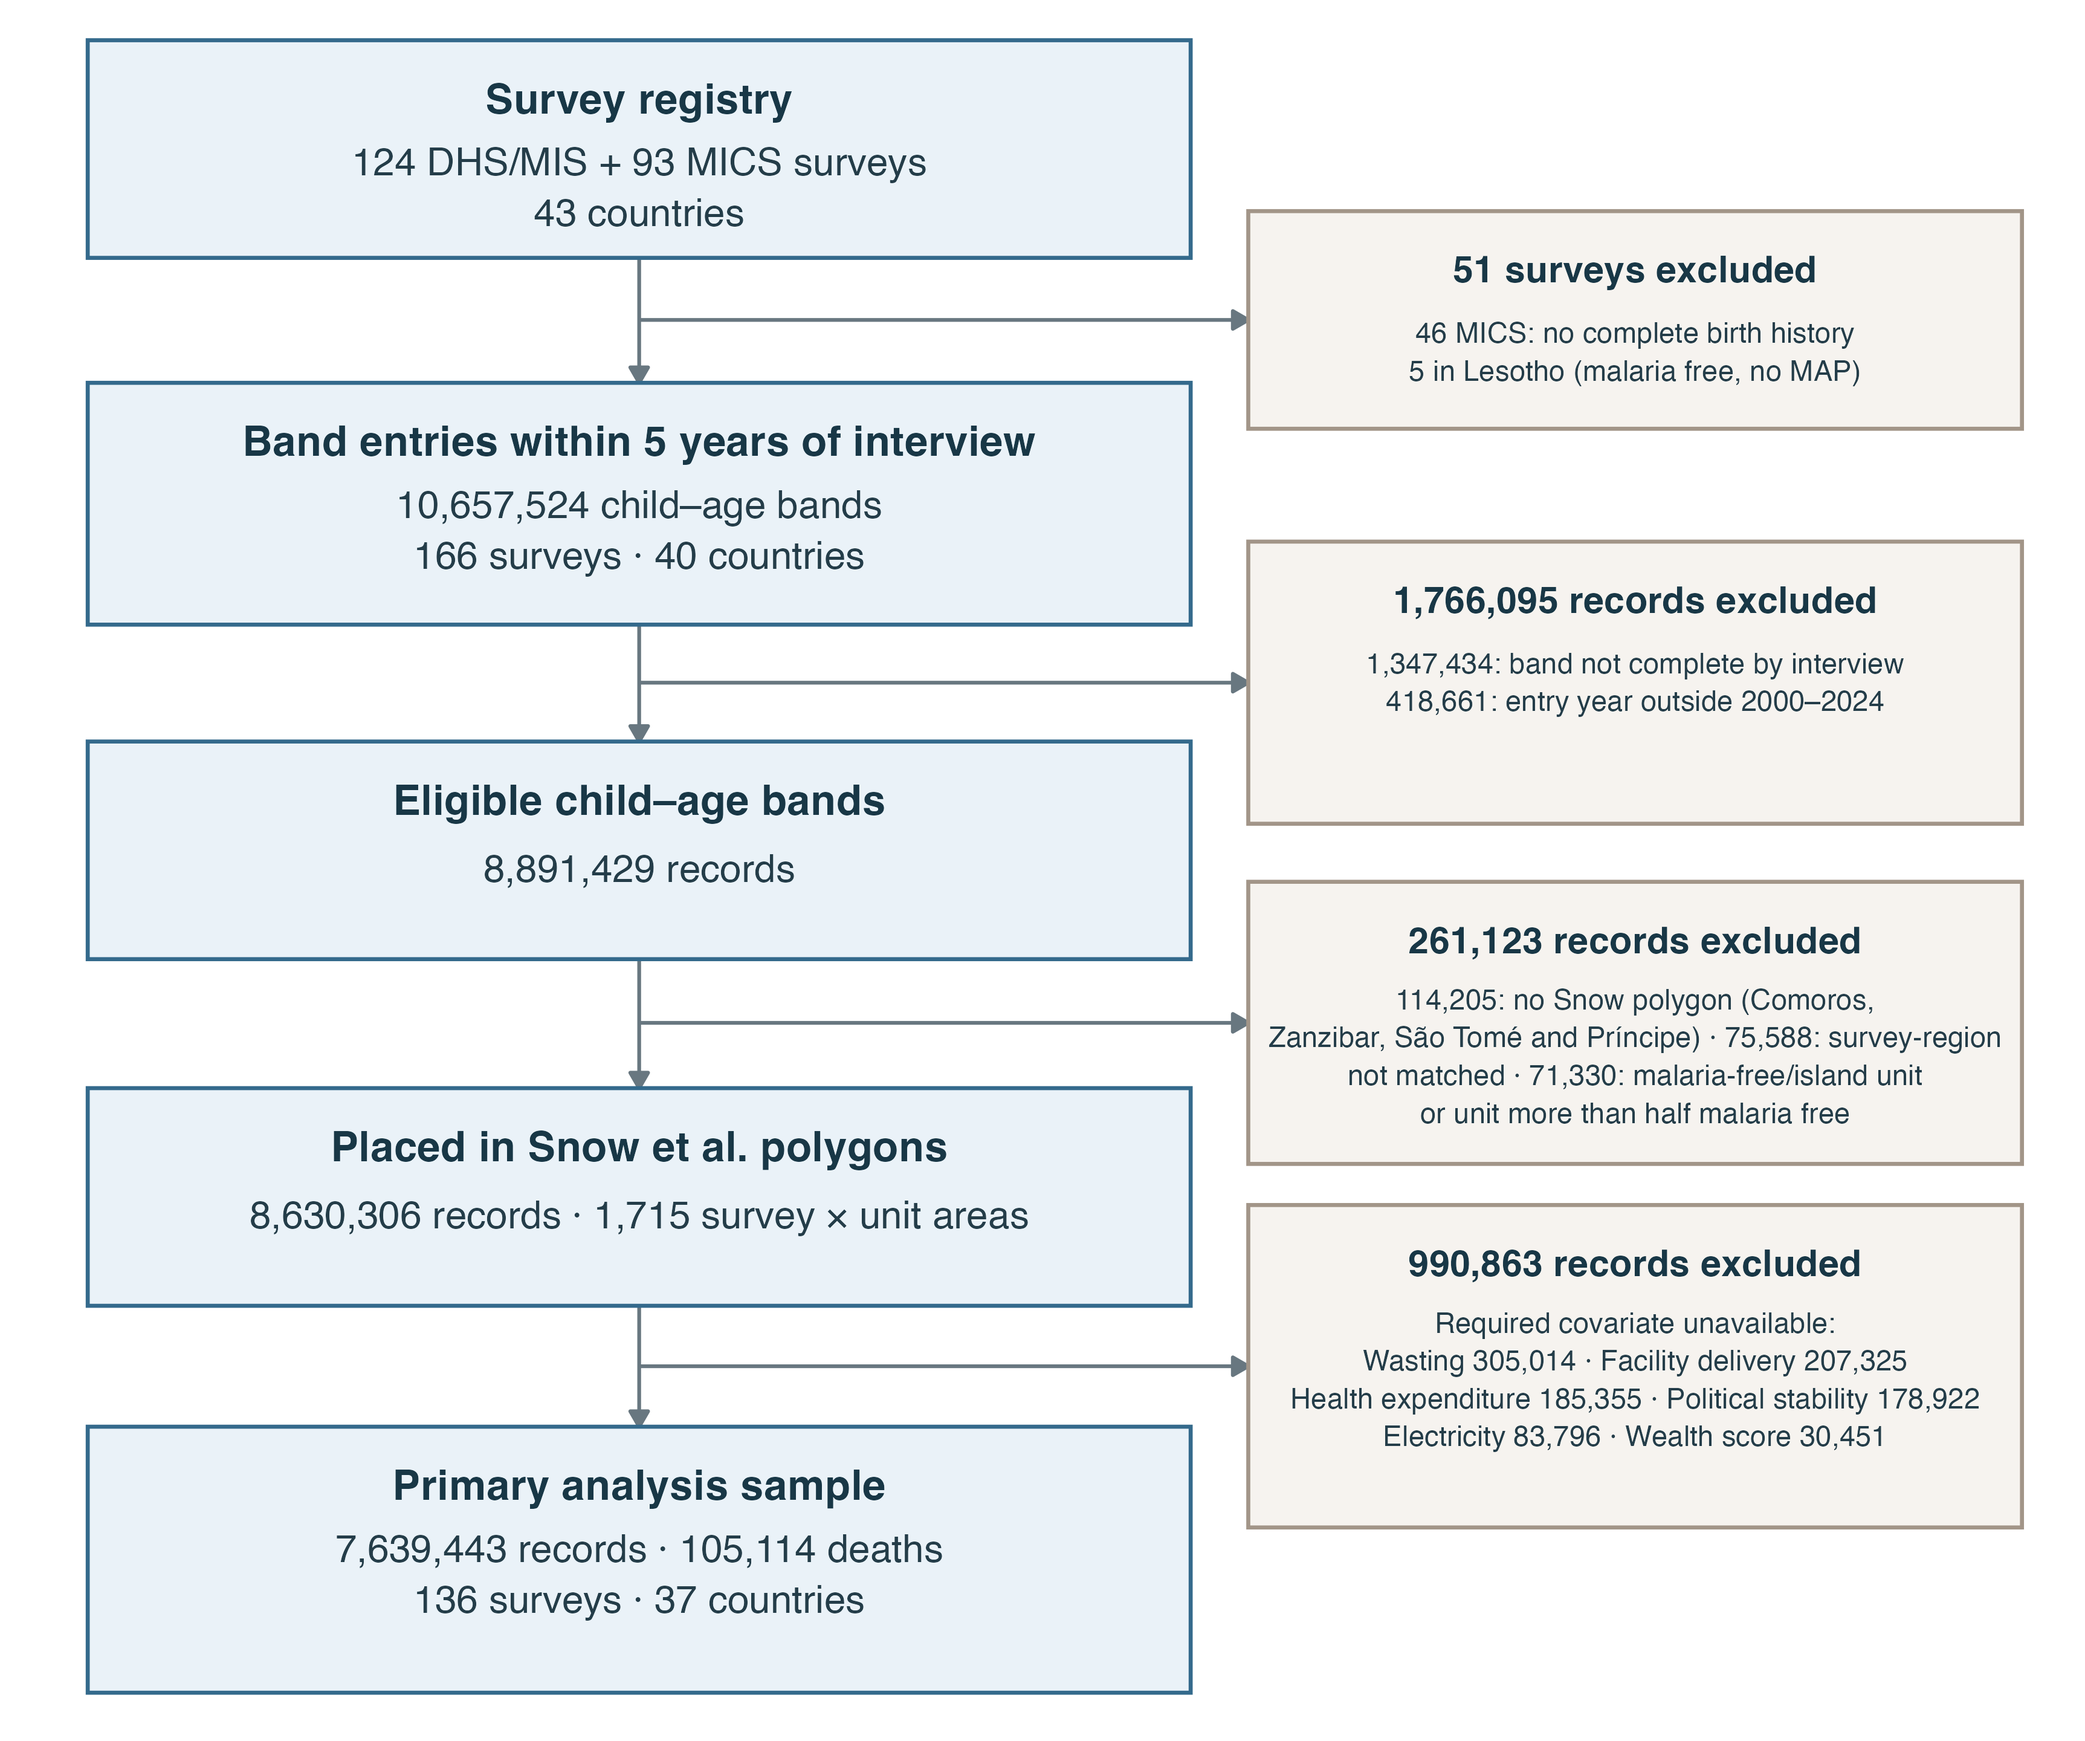
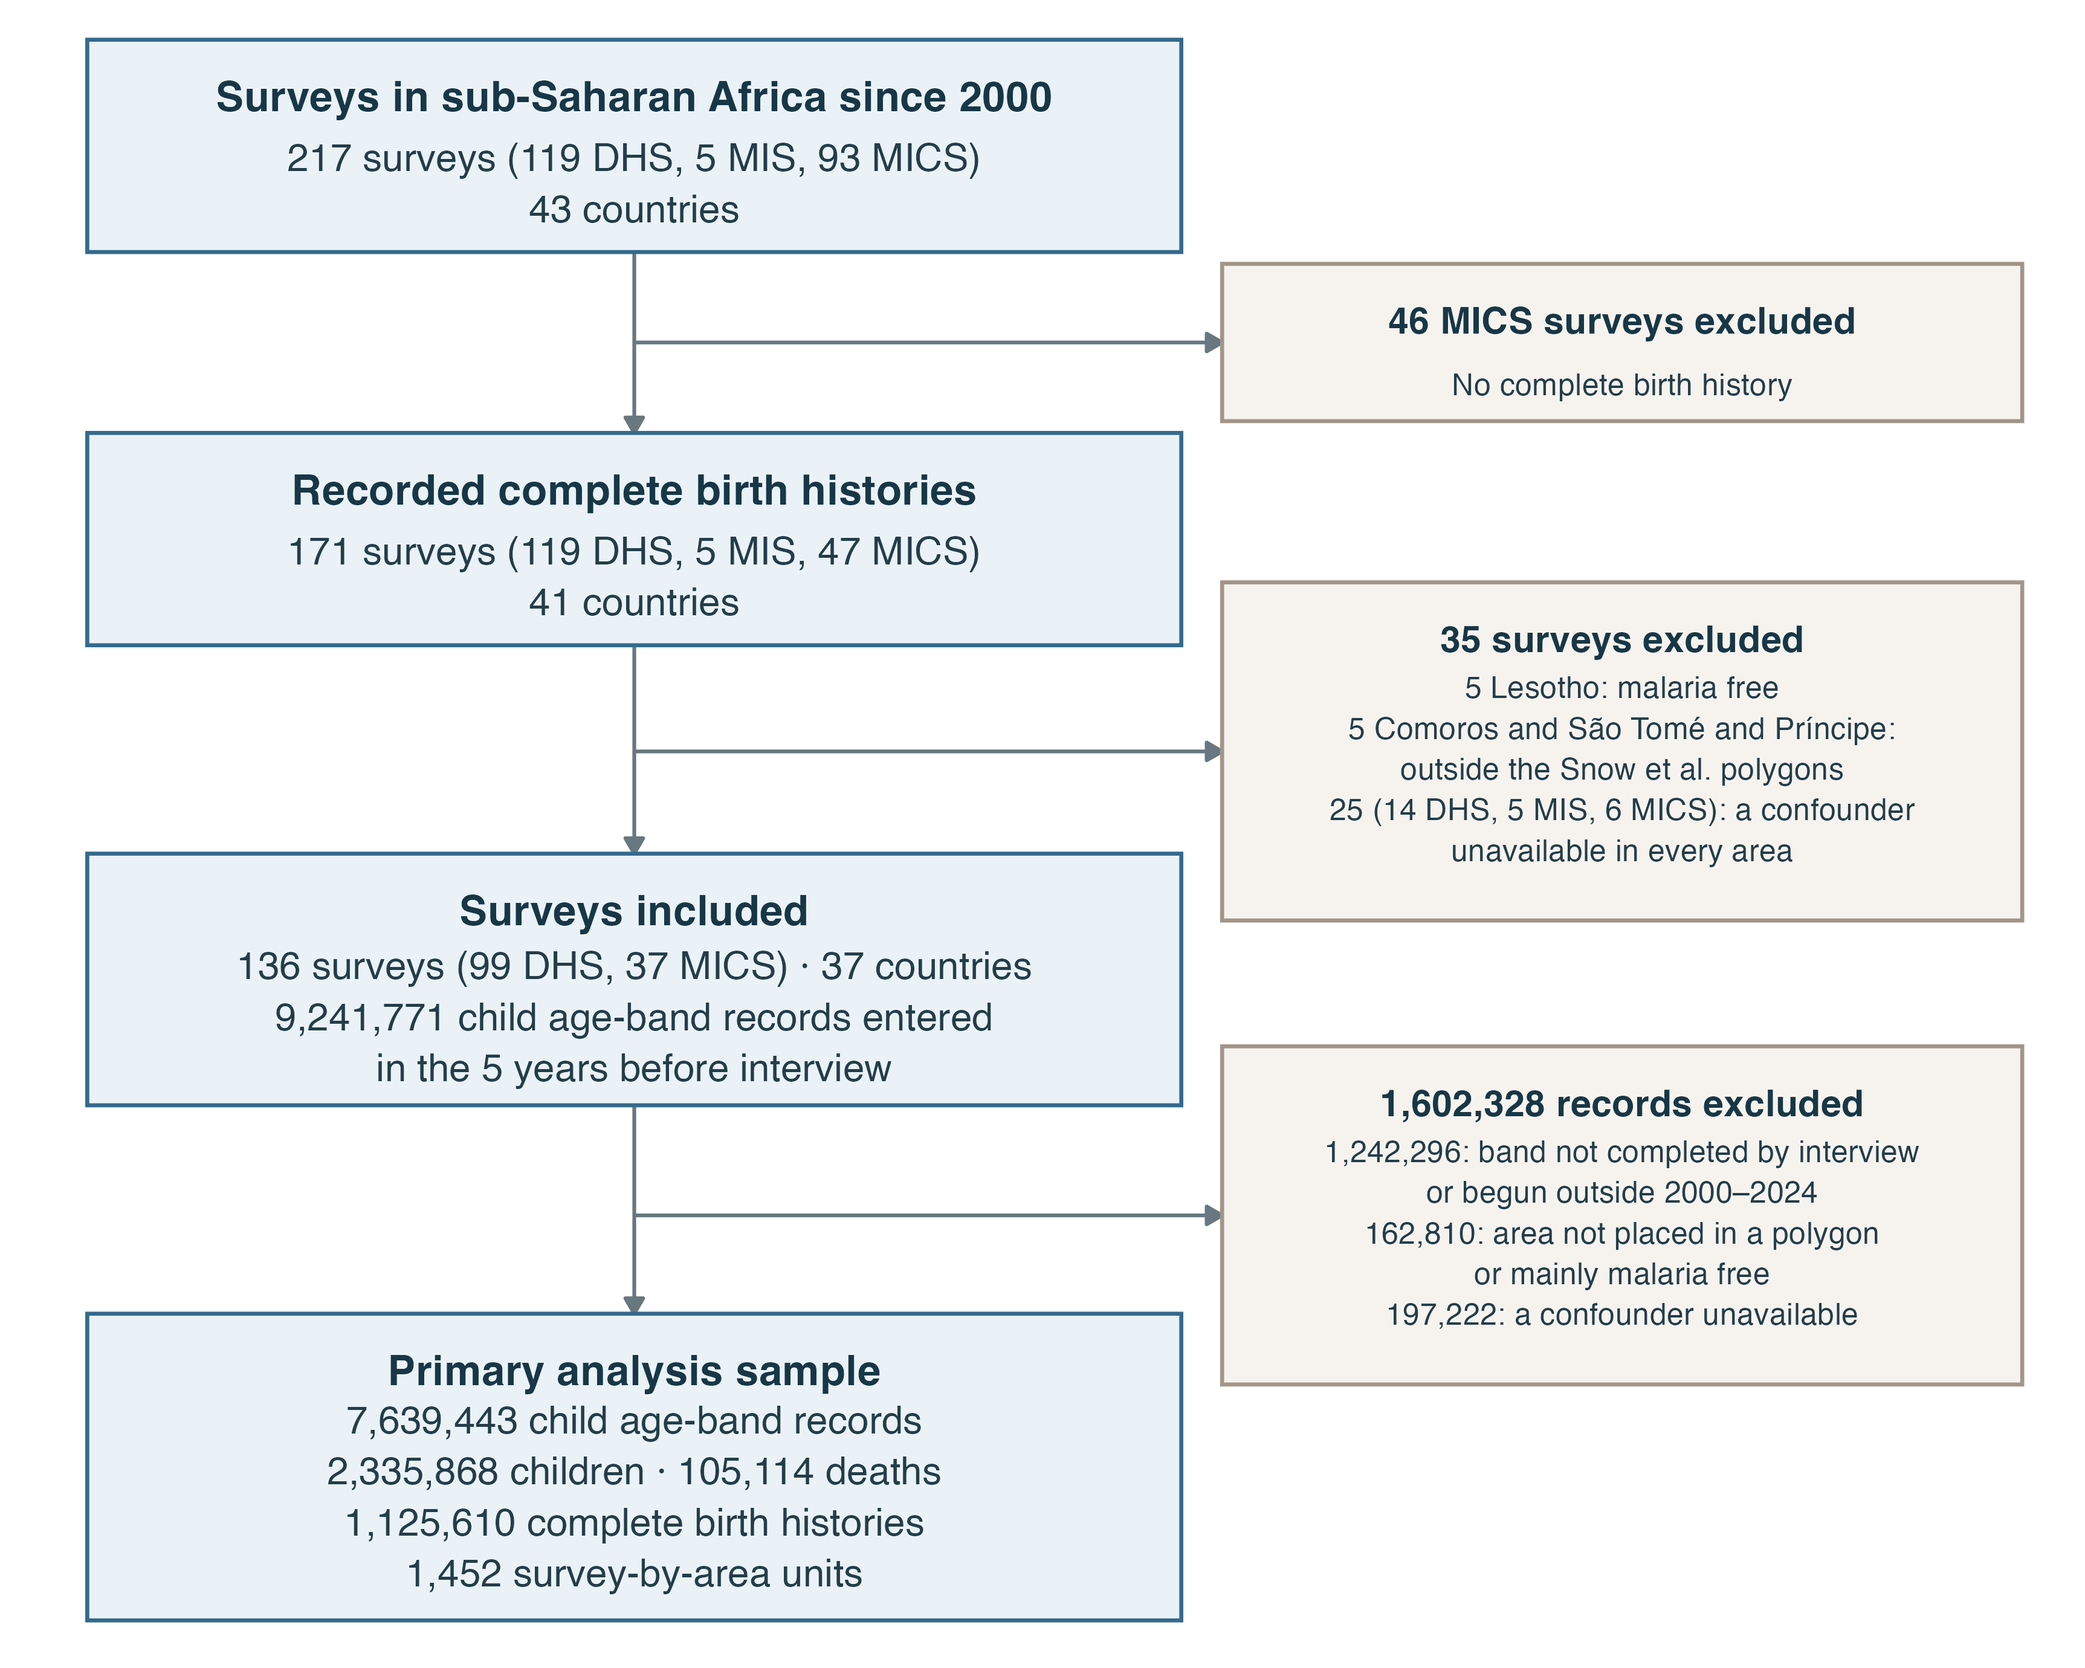
paper/: study-flow supplementary figure and caption (export at 1ff7194; flow, validation and export steps rerun, primary stage not rerun; no other paper asset changed)

diff --git a/paper/Supplementary Figures/sfig_study_flow_caption.md b/paper/Supplementary Figures/sfig_study_flow_caption.md
@@ -1,10 +1,10 @@
 # Figure caption — primary sample inclusion (Snow et al. polygons)
 
-**Figure. Sample inclusion for the primary analysis.** The survey registry contains 124 DHS and MIS surveys and 93 MICS surveys in 43 countries. 46 MICS surveys have no complete birth history and 5 surveys are excluded because Lesotho is malaria free and the Malaria Atlas Project publishes no prevalence surface for it, leaving 166 processed surveys in 40 countries. Counts below the registry refer to child–age-band records, not unique children.
+**Figure. Sample inclusion for the primary analysis.** Of 217 DHS, MIS and MICS surveys conducted in sub-Saharan Africa since 2000 (119 DHS, 5 MIS, 93 MICS; 43 countries), 171 recorded complete birth histories (119 DHS, 5 MIS, 47 MICS; 41 countries); the other 46 MICS surveys recorded only summary birth histories. 35 surveys were excluded: 5 from Lesotho, which is malaria free and has no Malaria Atlas Project prevalence surface; 5 from Comoros and São Tomé and Príncipe, which lie outside the Snow et al. (2017) polygons; and 25 (14 DHS, 5 MIS, 6 MICS) in which at least one required covariate was unavailable in every survey × unit area. 136 surveys (99 DHS, 37 MICS) from 37 countries were included.
 
-Among 10,657,524 band entries within the 60 months before interview, 1,347,434 have an incomplete potential band and 418,661 have entry years outside 2000–2024, leaving 8,891,429 eligible records. Each record is placed in the Snow et al. (2017) malaria-endemic polygons through its smallest reported administrative unit: the polygon holding at least 90% of that unit's population, or else the union of the polygons each holding at least 5%. 261,123 records are not placed: 114,205 in survey-regions with no Snow polygon (the Comoros, Zanzibar and São Tomé and Príncipe), 75,588 whose survey-region could not be matched to a boundary, and 71,330 in malaria-free or island units or in units more than half malaria free. 8,630,306 records remain in 1,715 survey × unit areas; 990,863 of them lack at least one required covariate (first missing: wasting 305,014; facility delivery 207,325; health expenditure 185,355; political stability 178,922; electricity 83,796; wealth score 30,451), leaving 7,639,443 records and 105,114 deaths in 136 surveys from 37 countries.
+In the included surveys, 9,241,771 child age-band records were entered within the 60 months before interview; counts from here are records, not unique children. 1,242,296 were excluded because the band could not be completed by the interview (1,167,873) or began outside 2000–2024 (74,423); 162,810 because the record's area could not be placed in a Snow et al. polygon (66,826 in survey-regions not matched to a boundary; 36,290 in Zanzibar, which has no polygon) or lay in malaria-free or island units or in units more than half malaria free (59,694); and 197,222 because at least one required covariate was unavailable (first missing: political stability 161,342; health expenditure 35,880). Each record is placed in the polygons through its smallest reported administrative unit: the polygon holding at least 90% of that unit's population, or else the union of the polygons each holding at least 5%. The primary sample has 7,639,443 records and 105,114 deaths from 2,335,868 children of 1,125,610 mothers (complete birth histories), in 1,452 survey × unit areas.
 
-30 processed surveys contribute no records to the final sample. The final records represent 2,335,868 distinct children.
+Record counts over all 166 processed surveys, including the excluded ones, are in the full ledger: 10,657,524 band entries, 8,891,429 eligible records, 8,630,306 placed in 1,715 survey × unit areas.
 
 Seven completed-month bands are analysed separately: <1, 1–5, 6–11, 12–23, 24–35, 36–47 and 48–59. The outcome is death during the band. Annual MAP PfPR₂–₁₀ of the record's unit (population-weighted over its polygons) and the national covariates are assigned at band-entry year. The 17 adjustment variables comprise survey × unit summaries of maternal age at first birth, education, wealth, urban residence, DTP3/measles coverage, facility delivery, short birth interval, improved water, improved sanitation, electricity, wasting and stunting, computed from the DHS and MICS recodes, plus national annual log child HIV incidence, log GDP per capita, log health expenditure per capita and political stability. For South Sudan (independent from July 2011), GDP per capita, health expenditure per capita and political stability for band-entry years before 2011 are Sudan's values for the same year (2005–2010: 57,509 records, 955 deaths); its child HIV incidence is its own series.
 Counts are read from the saved build, eligibility, placement, unit and selection ledgers and reconciled with the seven age-band fits. See [counts](flow_counts.csv) and [survey selection](survey_selection.csv).
